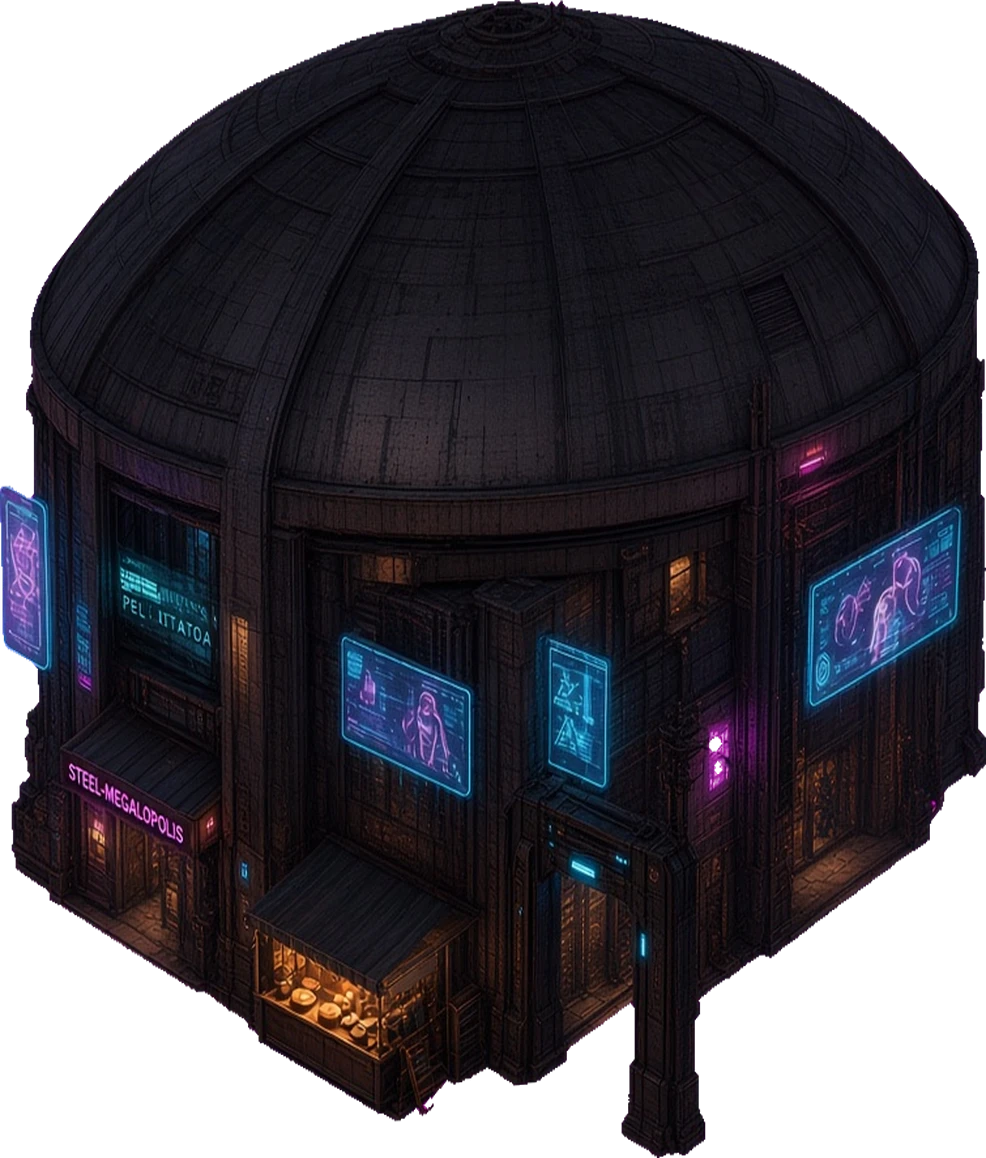
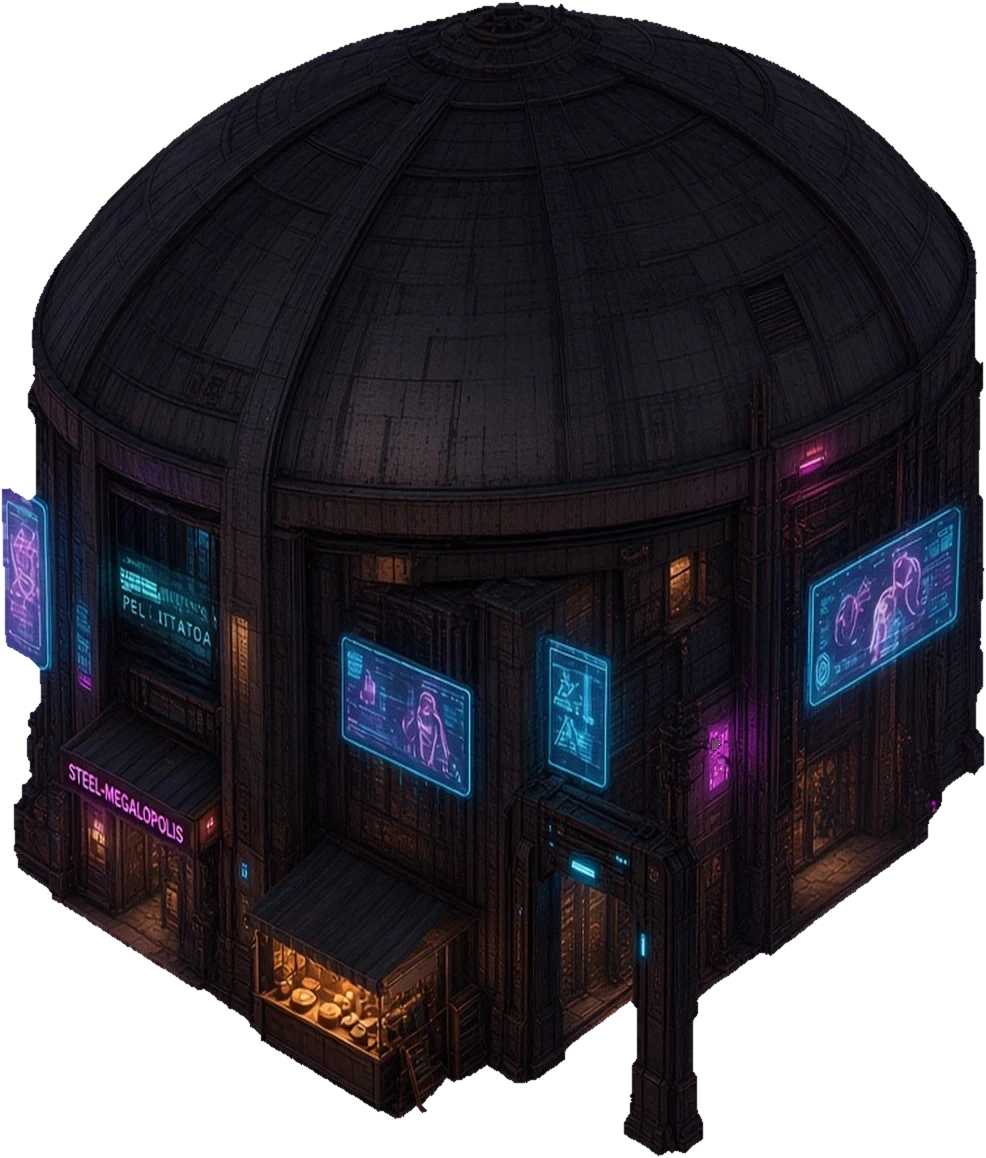
Finitions visuelles v15 : porte du sarcophage (dôme entier), matte projecteur et rotonde, table de jeu rectangulaire, 6 portraits mutants/cyborgs

diff --git a/tools_finitions.py b/tools_finitions.py
@@ -1,0 +1,115 @@
+# Finitions visuelles (branche creation/finitions-visuelles). N'écrit jamais dans src/.
+# 1) porte du sarcophage v3 (dôme entier)  2) matte du projecteur et de la rotonde  3) table de jeu rectangulaire
+import json, math, os, sys
+import numpy as np
+from PIL import Image
+from scipy import ndimage
+HERE = os.path.dirname(os.path.abspath(__file__)); sys.path.insert(0, HERE)
+import tools_interiors as TI
+YAW, PITCH, K = 34.5, 28.8, 50
+cy, sy = math.cos(math.radians(YAW)), math.sin(math.radians(YAW))
+G = HERE + '/art-gen/'; A = HERE + '/assets/'
+
+def mag_edge_pct(rgba):
+    """% des pixels de bord (alpha 1..254, ou opaques à 2 px du transparent) à teinte magenta."""
+    a = rgba[..., 3].astype(int); op = a > 0
+    edge = ((a > 0) & (a < 255)) | (op & ~ndimage.binary_erosion(op, iterations=2))
+    p = rgba[..., :3].astype(int); r, g, b = p[..., 0], p[..., 1], p[..., 2]
+    mag = (np.minimum(r, b) - g > 25) & (r > 60) & (b > 60)
+    n = edge.sum(); return round(100 * (mag & edge).sum() / max(1, n), 2), int(n)
+
+def rematte(rgba, erode=2, band_px=3):
+    """despill magenta, alpha durci, érosion, bords recolorés depuis les voisins opaques."""
+    rgba = rgba.copy(); p = rgba[..., :3].astype(float); al = rgba[..., 3].astype(float) / 255
+    hard = ndimage.binary_opening(al > 0.6, iterations=1)
+    hard = ndimage.binary_erosion(hard, iterations=erode)
+    hard = ndimage.binary_fill_holes(hard)  # trous intérieurs (lampes blanches mal détourées) bouchés
+    lab, n = ndimage.label(hard); s = ndimage.sum(hard, lab, range(1, n + 1)); hard = np.isin(lab, [i + 1 for i, v in enumerate(s) if v >= 30])
+    core = ndimage.binary_erosion(hard, iterations=band_px)
+    # recoloration : chaque pixel de la bande de bord prend la couleur du pixel du coeur le plus proche
+    _, (iy, ix) = ndimage.distance_transform_edt(~core, return_indices=True)
+    p0 = p.copy(); holes = hard & (al < 0.6)  # pixels de trou bouchés : couleur d origine conservée (premultipliée par le fond, déjà sombre ou blanche)
+    band = hard & ~core; p[band] = p[iy[band], ix[band]]
+    r, g, b = p[..., 0], p[..., 1], p[..., 2]; spill = np.clip(np.minimum(r, b) - g, 0, None)
+    m = band  # seulement la bande de bord : les néons violets voulus de l objet restent intacts
+    p[..., 0] = np.where(m, r - spill * 0.85, r); p[..., 2] = np.where(m, b - spill * 0.85, b)
+    # alpha : 255 à l'intérieur, 1 px d'anticrénelage
+    soft = ndimage.gaussian_filter(hard.astype(float), 0.6); soft[hard] = np.maximum(soft[hard], 0.85)
+    out = np.dstack([np.clip(p, 0, 255), np.clip(soft, 0, 1) * 255]).astype('uint8'); out[soft < 0.08] = 0
+    return out
+
+GATE_SCALE = 1.10  # mesuré : l'arche de gen_steel_gate3 est 0,91x celle de gen_steel_gate2 à largeur totale égale
+def align_to_old(new, old_path=G + 'matte-src/b_st_porte2_v13.webp', old_anchor=(1486, 828)):
+    # ancre recalée pour que l'arche et les murs restent au même point monde que dans l'ancien sprite (l'image ne grandit que vers le haut)
+    import cv2
+    g = lambda a: cv2.cvtColor(np.ascontiguousarray(a[..., :3]), cv2.COLOR_RGB2GRAY).astype(np.float32)
+    o = np.asarray(Image.open(old_path).convert('RGBA')); T = g(o)[120:620, 420:1050]
+    r = cv2.matchTemplate(g(np.asarray(new)), T, cv2.TM_CCOEFF_NORMED); _, mx, _, loc = cv2.minMaxLoc(r)
+    dx, dy = loc[0] - 420, loc[1] - 120; print('  recalage arche: score', round(mx, 3), 'décalage', dx, dy)
+    return [old_anchor[0] + dx, old_anchor[1] + dy]
+def gate():
+    raw = Image.open(G + 'gen_steel_gate3_raw.jpg').convert('RGB'); a = np.asarray(raw)
+    bg = tuple(int(v) for v in np.median(a[:10, :10].reshape(-1, 3), 0)); P = 140
+    pad = Image.new('RGB', (raw.size[0], raw.size[1] + P), bg); pad.paste(raw, (0, P)); pad.save(G + 'gen_steel_gate3.jpg', quality=95)
+    import importlib.util
+    src = open(HERE + '/tools_steel.py').read(); ns = {}
+    exec(src[src.index('def key_green'):src.index('def key_bg')], {'np': np, 'Image': Image, 'ndimage': ndimage, '__builtins__': __builtins__}, ns)
+    rgba = ns['key_green'](G + 'gen_steel_gate3.jpg')
+    al = rgba[..., 3] > 100; ys, xs = np.nonzero(al)
+    sc = K * (30.0 * cy + 9.0 * sy) / (xs.max() - xs.min() + 1) * GATE_SCALE  # GATE_SCALE : arche à la même taille que l'ancien sprite
+    im = Image.fromarray(rgba).resize((int(rgba.shape[1] * sc), int(rgba.shape[0] * sc)), Image.LANCZOS)
+    full = Image.new('RGBA', (im.size[0] + 20, im.size[1] + 20), (0, 0, 0, 0)); full.alpha_composite(im, (10, 10))
+    M = ndimage.binary_opening(np.asarray(full)[..., 3] > 100); lab, n = ndimage.label(M); sz = ndimage.sum(M, lab, range(1, n + 1)); M = lab == int(np.argmax(sz)) + 1
+    ys, xs = np.nonzero(M); x0, x1, y0, y1 = xs.min(), xs.max(), ys.min(), ys.max(); ax = int(np.median(xs[ys >= y1 - 3])); ay = int(y1)
+    m = ndimage.binary_dilation(M, iterations=2)[y0:y1 + 1, x0:x1 + 1]
+    sub = full.crop((x0, y0, x1 + 1, y1 + 1)); sub.putalpha(Image.fromarray(np.minimum(np.asarray(sub)[..., 3], m * 255).astype('uint8')))
+    sub.save(A + 'buildings/b_st_porte2.webp', quality=90)
+    man = json.load(open(A + 'buildings/manifest.json')); old = dict(man['b_st_porte2'])
+    man['b_st_porte2'].update({'source': 'art-gen/gen_steel_gate3.jpg', 'crop': [int(x0), int(y0), int(x1) + 1, int(y1) + 1], 'px': list(sub.size),
+                               'anchor': align_to_old(sub), 'anchor_note': 'ancre recalée sur l ancien sprite (arche au même point monde) ; coin bas détecté ' + str([ax - int(x0), ay - int(y0)]), 'lot': 'steel-l1 v12 ; finitions v15 : dôme entier'})
+    json.dump(man, open(A + 'buildings/manifest.json', 'w'), indent=1, ensure_ascii=False)
+    print('porte2', old, '->', man['b_st_porte2'], 'echelle', round(sc, 3))
+    q = np.asarray(pad).astype(int); obj = np.abs(q - np.array(bg)).sum(2) > 40; rows = np.nonzero(obj.sum(1) > 5)[0]
+    print('  marge haute source : brute %.1f%%, après pad %.1f%%' % (100 * (rows.min() - P) / a.shape[0], 100 * rows.min() / q.shape[0]))
+
+def mattes():
+    res = {}
+    sheet = TI.quad(G + 'gen_fort_sheet.jpg', 3)  # même extraction que tools_steel_decor
+    im = Image.fromarray(sheet, 'RGBA'); im.thumbnail((512, 512)); before = np.asarray(im).copy()
+    old_disk = before  # même extraction que le sprite v13 d'origine
+    fixed = rematte(before, 1, 1)  # petit sprite : bande de recoloration de 1 px (garde les arêtes nettes); Image.fromarray(fixed).save(A + 'generated/st_projecteur.webp', quality=92)
+    res['st_projecteur'] = (mag_edge_pct(old_disk), mag_edge_pct(np.asarray(Image.open(A + 'generated/st_projecteur.webp').convert('RGBA'))), fixed.shape[1::-1])
+    d = np.asarray(Image.open(G + 'matte-src/b_st_ct_dome_v14.webp').convert('RGBA'))  # sprite v14 d'origine (idempotent)
+    fd = rematte(d, 2); Image.fromarray(fd).save(A + 'buildings/b_st_ct_dome.webp', quality=92)
+    res['b_st_ct_dome'] = (mag_edge_pct(d), mag_edge_pct(np.asarray(Image.open(A + 'buildings/b_st_ct_dome.webp').convert('RGBA'))), fd.shape[1::-1])
+    for k, v in res.items(): print(k, 'magenta bord avant %s%% (n=%d) -> après %s%% (n=%d), px %s' % (v[0][0], v[0][1], v[1][0], v[1][1], v[2]))
+    return res
+
+def key_green_obj(path):
+    a = np.asarray(Image.open(path).convert('RGB')).astype(float); r, g, b = a[..., 0], a[..., 1], a[..., 2]
+    ex = g - np.maximum(r, b)                      # fond vert vif (0, 230, 0)
+    al = np.clip((150 - ex) / 60, 0, 1)
+    al = ndimage.binary_opening(al > 0.5, iterations=2) * al
+    a[..., 1] = np.minimum(g, np.maximum(r, b) * 1.15 + 6) * (al < 0.999) + g * (al >= 0.999)  # despill vert des bords
+    hard = ndimage.binary_fill_holes(al > 0.5); al = np.where(hard, np.maximum(al, (ex < 60)), al)
+    return TI.clean(np.dstack([np.clip(a, 0, 255), al * 255]).astype('uint8'), 4000)
+
+def cardtable():
+    aid, w, d, h = 'sv_cardtable_b', 1.2, 1.2, 0.9
+    rgba, fix = TI.v4fix(key_green_obj(G + 'gen_sv_cardtable3.jpg'))
+    j = TI.judge(rgba); hh = rgba.shape[0] / rgba.shape[1]; j['correction_v4'] = fix; j['sens'] = 'direct'
+    if abs(fix['pentes_apres'][0] - 0.33) <= 0.06 and abs(fix['pentes_apres'][1] - 0.70) <= 0.06: j['accepte'] = True; j['regle'] = 'arête basse v4'
+    R, U = TI.R, TI.U; sw = w * abs(R[0]) + d * abs(R[2]); implied = (sw * hh - w * abs(U[0]) - d * abs(U[2])) / U[1]
+    j.update({'source': 'généré art-gen/gen_sv_cardtable3.jpg #-1', 'role': 'table de jeu rectangulaire sur caisses, cartes et jetons (généré, angle corrigé ; remplace sv_cardtable rejetée)',
+              'emprise_m': [w, d], 'hauteur_attendue_m': h, 'hauteur_implicite_m': round(implied, 2)})
+    j['echelle_ok'] = bool(abs(implied - h) <= 0.3 * h + 0.15)
+    rep = json.load(open(A + 'interiors/rapport_angles.json')); rep[aid] = j; json.dump(rep, open(A + 'interiors/rapport_angles.json', 'w'), ensure_ascii=False, indent=1)
+    print(aid, j)
+    if j['accepte'] and j['echelle_ok']:
+        im = Image.fromarray(rgba, 'RGBA'); im.thumbnail((640, 640)); im.save(A + 'interiors/' + aid + '.webp', quality=90)
+        man = json.load(open(A + 'interiors/manifest.json'))
+        man[aid] = {'file': f'interiors/{aid}.webp', 'px': list(im.size), 'footprint_m': [w, d], 'height_m': h, 'origin': 'généré', 'source': j['source'], 'mirrored_from_source': False}
+        json.dump(man, open(A + 'interiors/manifest.json', 'w'), ensure_ascii=False, indent=1); print('exporté', man[aid])
+
+if __name__ == '__main__':
+    for step in (sys.argv[1:] or ['gate', 'mattes', 'cardtable']): globals()[step]()

diff --git a/docs/ASSETS_CATALOGUE.md b/docs/ASSETS_CATALOGUE.md
@@ -288,3 +288,14 @@ Portes peintes nouvelles (pixel source → ouverture monde) : maison à escalier
 | Fichier | Origine | Usage |
 |---|---|---|
[1 lines of base64/hex data omitted]
+
+## v15 (2026-10-22) : finitions visuelles (branche `creation/finitions-visuelles`)
+
+Script : `tools_finitions.py` (n'écrit rien dans `src/`). Toutes les images nouvelles sont **générées** (GenerateImage), sources gardées dans `art-gen/`.
+| Asset | Provenance | Contrôle |
+|---|---|---|
+| `buildings/b_st_porte2.webp` | **généré** `art-gen/gen_steel_gate3_raw.jpg` (référence : `gen_steel_gate2.jpg`, même angle v4), fond vert uni. Dôme entier ; marge haute brute 4,7 % portée à 18 % par ajout de 140 px de fond uni en haut (`gen_steel_gate3.jpg`). Détourage `key_green` de `tools_steel.py`, échelle K (× 1,10 pour que l'arche ait la taille de l'ancien sprite). Ancre recalée par corrélation sur l'arche de l'ancien sprite (score 0,73) : l'image ne grandit que vers le haut. Manifeste : px 1640 × 1084, crop [10, 10, 1650, 1094], ancre [1491, 1067] (coin bas détecté [1527, 1083]), emprise 30 × 8 inchangée | capture `nml-shots/v2/apres_porte_dome*.png` |
+| `generated/st_projecteur.webp` | même source (`gen_fort_sheet.jpg` #3) ; matte refait : alpha durci, érosion 1 px, bord (1 px) recoloré depuis les voisins opaques, despill magenta sur la bande de bord | pixels de bord magenta 4,53 % → 0,03 % |
+| `buildings/b_st_ct_dome.webp` | sprite v14 d'origine (`art-gen/matte-src/b_st_ct_dome_v14.webp`) ; même matte (érosion 2 px, bande 3 px), trous intérieurs bouchés ; néons violets intérieurs intacts | pixels de bord magenta 5,06 % → 0,02 % |
+| `interiors/sv_cardtable_b.webp` | **généré** `art-gen/gen_sv_cardtable3.jpg` : table de jeu rectangulaire sur caisses, cartes et jetons, sans tabouret. 1er essai `gen_sv_cardtable2.jpg` écarté (trop bas : hauteur implicite 0,46 m pour 0,9). Angle corrigé `v4fix` (pentes 0,76/0,78 → 0,33/0,70) | `rapport_angles.json` : accepté (arête basse v4), hauteur implicite 0,84 / 0,9 m, emprise 1,2 × 1,2 |
+| `portraits/portraits-v3-mutant-0..2.webp`, `portraits-v3-cyborg-0..2.webp` | **générés** (`art-gen/portraits-v3/*.jpg`, 1024 → 480 px), cadrage buste, lumière chaude ; références : `Population-Mutants.png` / `Population-Cyborgs.png` (roman-docs) et `portraits-v2-0`. Mutants : homme ~55 ans (excroissances osseuses), femme ~20 ans (peau marbrée, nodules), aînée ~70 ans (cicatrices, talisman). Cyborgs : femme ~35 ans cadre d'IO (céramique blanche et or), officier ~45 ans (plaques graphite, capteurs rouges), déserteur ~60 ans (chrome usé, foulard rouge). 1er essai mutant-0 écarté (copie de portraits-v2-0) | planche `nml-shots/v2/portraits_v3_planche.png` |
